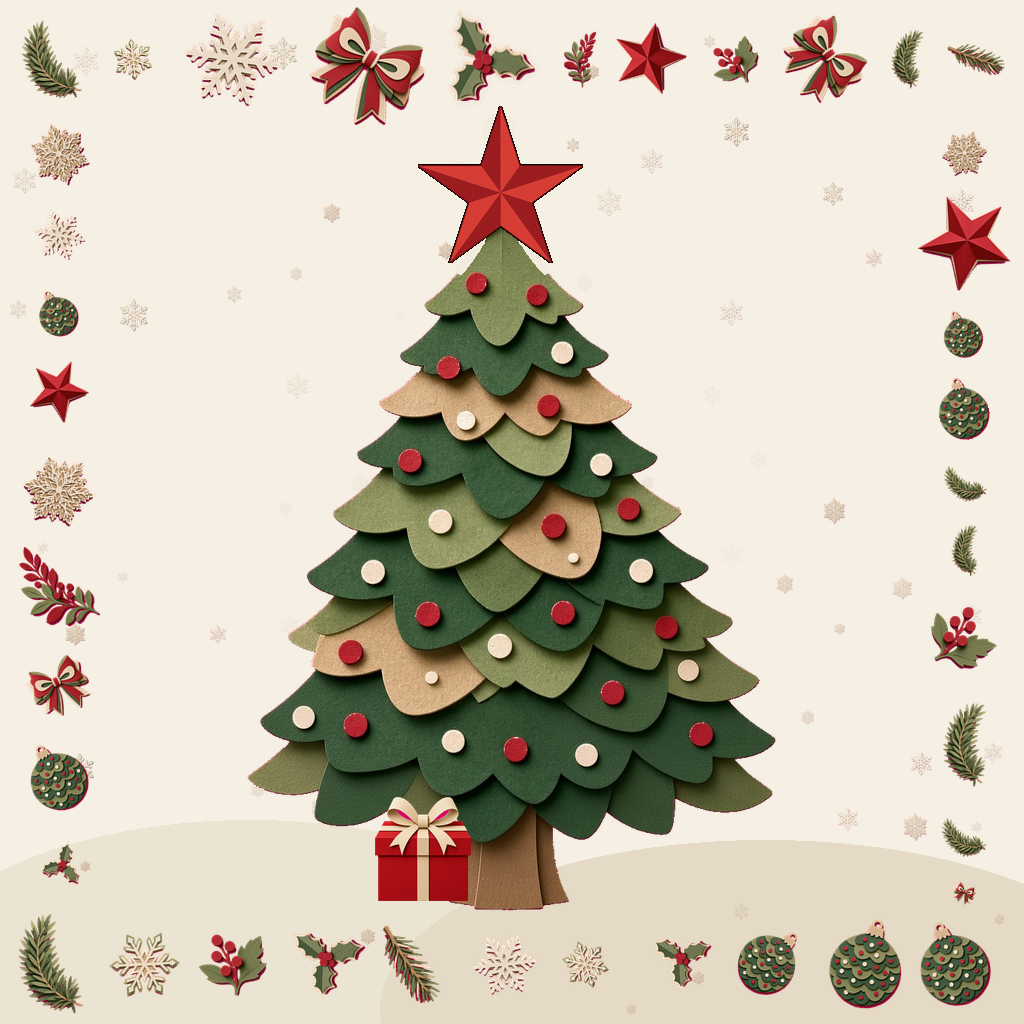
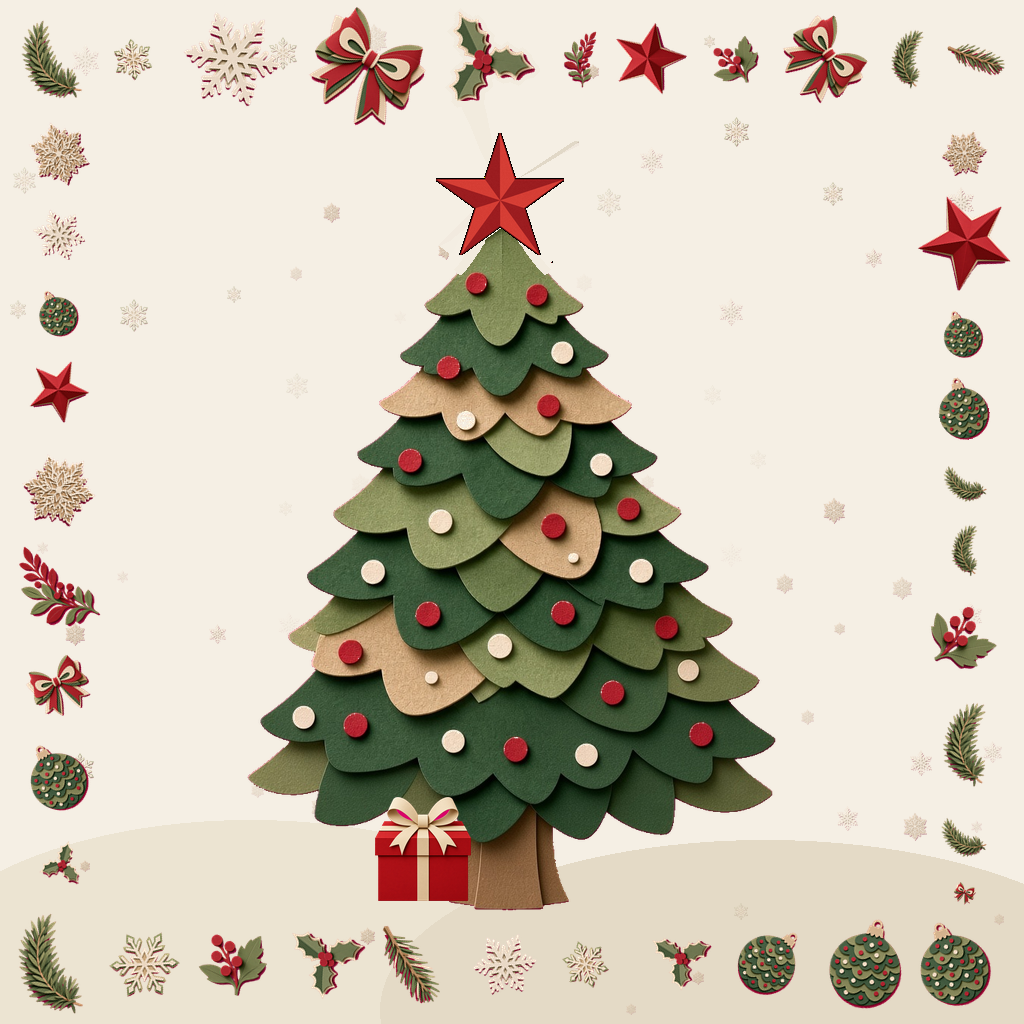
Flip neon finger guides; shrink paper cover star (v29)
Horizontally flip all neon coach guides with hard opaque neon cores;
rebuild next without stray tree and re-composite flipped bell+pack.
Paper cover v29: smaller topper star on v28 base with top holly kept.
Cache-bust neon VER 22, paper VER 24.

Changed region(s): [[0.4062, 0.0938, 0.5625, 0.25]]

diff --git a/hosts/paper/src/paperAssets.js b/hosts/paper/src/paperAssets.js
@@ -5,7 +5,7 @@ import { loadImage } from './pixelAssets.js'
 
 const BASE = import.meta.env.BASE_URL
 const P = `${BASE}paper`
-const VER = '23'
+const VER = '24'
 
 export const PAPER = {
   guideSnow: `${P}/guide-snow.jpg?v=${VER}`,

diff --git a/src/paperAssets.js b/src/paperAssets.js
@@ -5,7 +5,7 @@ import { loadImage } from './pixelAssets.js'
 
 const BASE = import.meta.env.BASE_URL
 const P = `${BASE}paper`
-const VER = '21'
+const VER = '24'
 
 export const PAPER = {
   guideSnow: `${P}/guide-snow.jpg?v=${VER}`,

diff --git a/hosts/neon/src/neonAssets.js b/hosts/neon/src/neonAssets.js
@@ -5,7 +5,7 @@ import { loadImage } from './pixelAssets.js'
 
 const BASE = import.meta.env.BASE_URL
 const N = `${BASE}neon`
-const VER = '21'
+const VER = '22'
 const FLAKE_VER = '4'
 
 export const NEON = {

diff --git a/src/neonAssets.js b/src/neonAssets.js
@@ -5,7 +5,7 @@ import { loadImage } from './pixelAssets.js'
 
 const BASE = import.meta.env.BASE_URL
 const N = `${BASE}neon`
-const VER = '19'
+const VER = '22'
 const FLAKE_VER = '4'
 
 export const NEON = {
